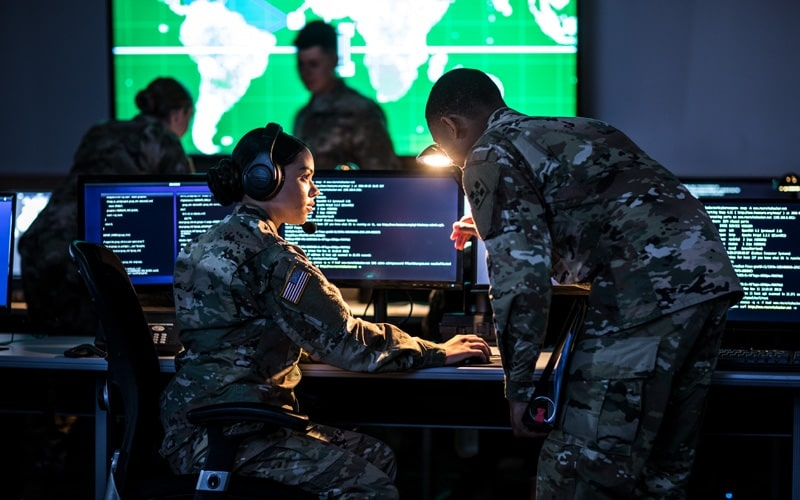
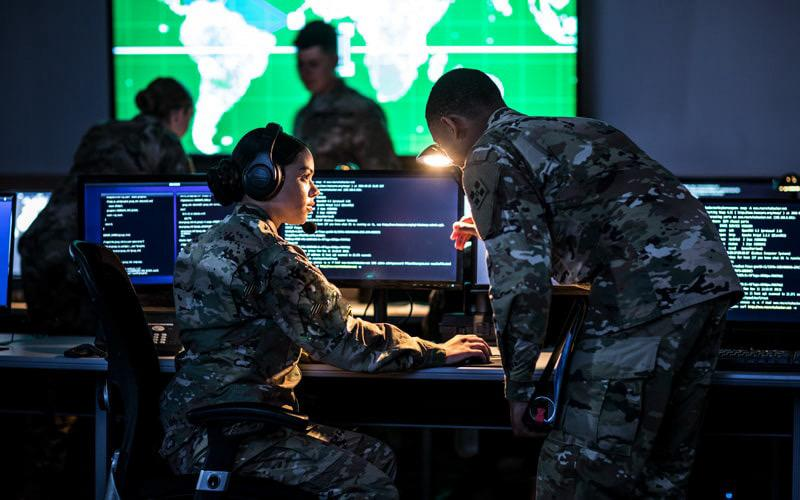
removed usa flag

Changed region(s): [[0.3438, 0.51, 0.4375, 0.69]]

diff --git a/src/components/Partnership.jsx b/src/components/Partnership.jsx
@@ -12,7 +12,7 @@ export const Partnership = () => {
         <div className=" items-center justify-between gap-20 flex flex-col lg:grid lg:grid-cols-10 my-10">
           <div className="col-span-5 rounded-lg overflow-hidden   ">
             <img
-              src="./assets/partner.jpeg"
+              src="./assets/partner.jpg"
               className="w-[100%] h-[100%]"
               alt=""
             />
